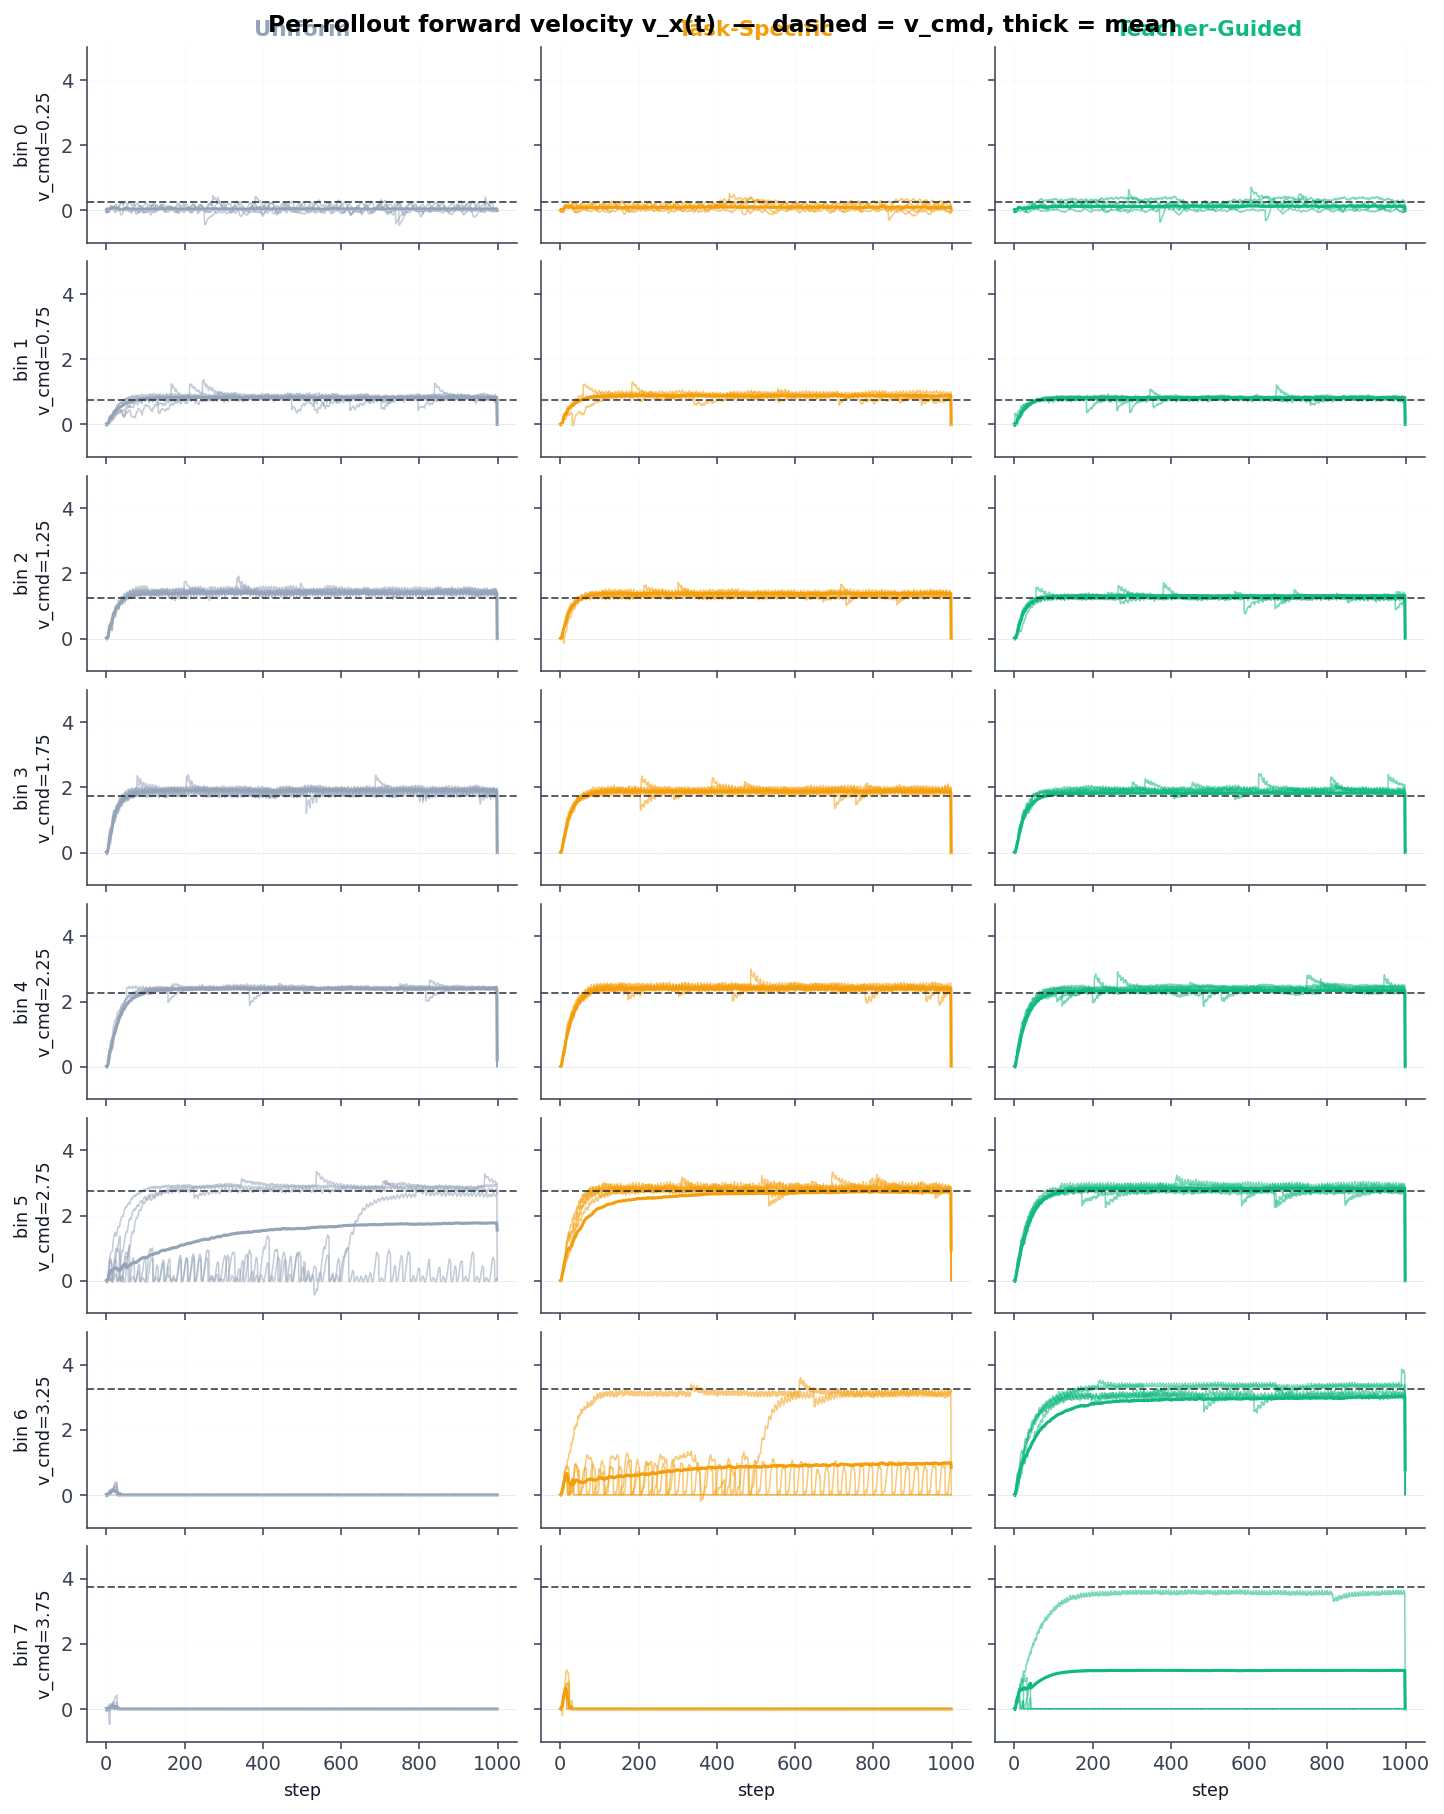
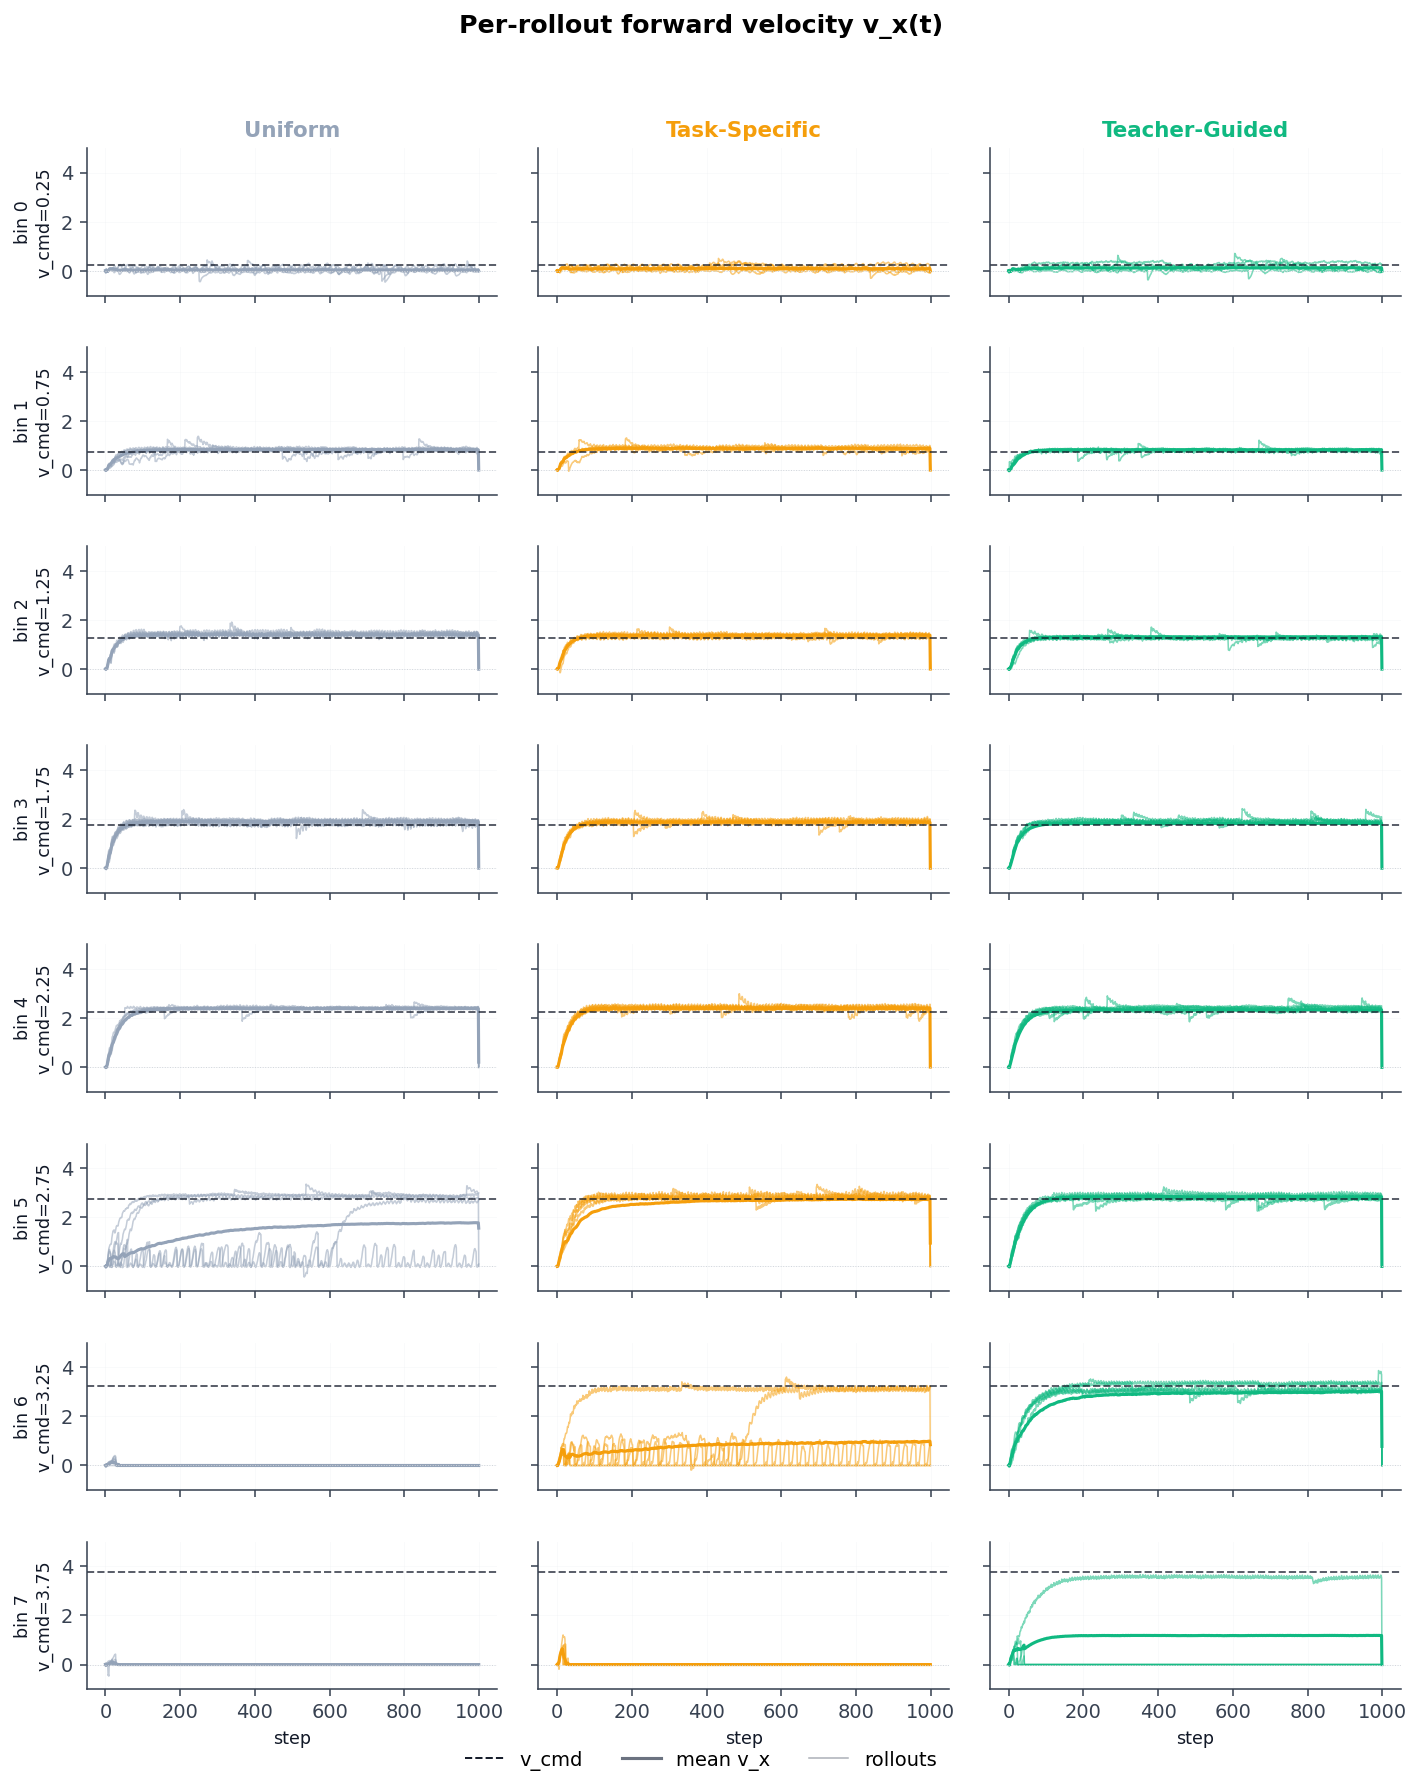
Add gait diagram plot, fix legend collisions and title spacing

diff --git a/src/source/curriculum_rl/curriculum_rl/figures/plot_gait_diagram.py b/src/source/curriculum_rl/curriculum_rl/figures/plot_gait_diagram.py
@@ -1,0 +1,175 @@
+from __future__ import annotations
+
+import argparse
+import sys
+from pathlib import Path
+
+import matplotlib.pyplot as plt
+import numpy as np
+from matplotlib.patches import Patch
+
+from curriculum_rl.figures._util import (
+    CONDITION_COLOR,
+    CONDITION_LABEL,
+    CONDITION_ORDER,
+    apply_style,
+    infer_condition,
+)
+
+
+FOOT_LABELS = ["FL", "FR", "RL", "RR"]
+
+
+def _find_traces(traces_dir: Path) -> dict[str, list[Path]]:
+    out: dict[str, list[Path]] = {}
+    if not traces_dir.is_dir():
+        return out
+    for path in sorted(traces_dir.glob("*.npz")):
+        cond = infer_condition(path.stem)
+        if cond is None:
+            continue
+        out.setdefault(cond, []).append(path)
+    return out
+
+
+def _pick_rollout(contact: np.ndarray, vx: np.ndarray, v_cmd: float) -> int:
+    n_roll, n_steps, _ = contact.shape
+    survives = np.array([
+        bool(contact[i].any(axis=1).all()) or (vx[i].shape[0] == n_steps and np.isfinite(vx[i, -1]))
+        for i in range(n_roll)
+    ])
+    err = np.abs(vx.mean(axis=1) - v_cmd)
+    if survives.any():
+        idx = np.where(survives)[0]
+        return int(idx[np.argmin(err[idx])])
+    return int(np.argmin(err))
+
+
+def _draw_gait_strip(ax, contact_one: np.ndarray, color: str, sim_dt: float, t_window_s: float) -> None:
+    n_steps = contact_one.shape[0]
+    n_show = min(int(t_window_s / sim_dt), n_steps)
+    c = contact_one[:n_show]
+    t = np.arange(n_show) * sim_dt
+
+    for foot_i in range(4):
+        y_low = 3 - foot_i - 0.4
+        y_high = 3 - foot_i + 0.4
+        contact_mask = c[:, foot_i].astype(bool)
+        if contact_mask.any():
+            edges = np.diff(np.concatenate(([False], contact_mask, [False])).astype(int))
+            starts = np.where(edges == 1)[0]
+            ends = np.where(edges == -1)[0]
+            for s, e in zip(starts, ends):
+                ax.fill_between(
+                    [t[s], t[min(e, n_show - 1)]],
+                    y_low, y_high,
+                    color=color, lw=0,
+                )
+
+    ax.set_xlim(0, n_show * sim_dt)
+    ax.set_ylim(-0.7, 3.7)
+    ax.set_yticks([3, 2, 1, 0])
+    ax.set_yticklabels(FOOT_LABELS, fontsize=7)
+    ax.tick_params(axis="x", labelsize=7)
+    ax.grid(False)
+    for spine in ("top", "right"):
+        ax.spines[spine].set_visible(False)
+
+
+def plot_gait_diagram(
+    traces_dir: Path,
+    out_path: Path,
+    num_bins: int = 8,
+    t_window_s: float = 3.0,
+) -> None:
+    cond_to_files = _find_traces(traces_dir)
+    if not cond_to_files:
+        raise FileNotFoundError(f"no trace npz files found in {traces_dir}")
+
+    sim_dt = None
+    for files in cond_to_files.values():
+        z = np.load(files[0])
+        if "contact_b0" not in z.files:
+            raise ValueError(
+                f"{files[0]} has no contact_b0 — re-run eval_epte.py to log foot contacts"
+            )
+        sim_dt = float(z["sim_dt"]) if "sim_dt" in z.files else 0.02
+        break
+
+    conditions = [c for c in CONDITION_ORDER if c in cond_to_files]
+    n_cols = len(conditions)
+    n_rows = num_bins
+
+    apply_style()
+    plt.rcParams["figure.constrained_layout.use"] = False
+    fig, axes = plt.subplots(
+        n_rows, n_cols,
+        figsize=(4.0 * n_cols, 1.3 * n_rows),
+        sharex=True,
+    )
+    if n_cols == 1:
+        axes = axes.reshape(-1, 1)
+    if n_rows == 1:
+        axes = axes.reshape(1, -1)
+
+    for ci, cond in enumerate(conditions):
+        files = cond_to_files[cond]
+        z0 = np.load(files[0])
+        for b in range(num_bins):
+            ax = axes[b, ci]
+            key_c = f"contact_b{b}"
+            key_vx = f"vx_b{b}"
+            key_vc = f"vcmd_b{b}"
+            if key_c not in z0.files:
+                ax.text(0.5, 0.5, "n/a", transform=ax.transAxes,
+                        ha="center", va="center", color="#9ca3af", fontsize=8)
+                ax.set_xticks([])
+                ax.set_yticks([])
+                continue
+            contact = z0[key_c]
+            vx = z0[key_vx]
+            v_cmd = float(z0[key_vc]) if key_vc in z0.files else 0.0
+
+            r = _pick_rollout(contact, vx, v_cmd)
+            _draw_gait_strip(ax, contact[r], CONDITION_COLOR[cond], sim_dt, t_window_s)
+
+            if ci == 0:
+                ax.set_ylabel(f"bin {b}\nv={v_cmd:.2f}", fontsize=8)
+            if b == 0:
+                ax.set_title(CONDITION_LABEL[cond], fontsize=11, fontweight="bold",
+                             color=CONDITION_COLOR[cond])
+            if b == n_rows - 1:
+                ax.set_xlabel("time (s)", fontsize=9)
+
+    fig.suptitle("Gait Diagram (Foot Contact Pattern)", fontsize=13, fontweight="bold", y=0.995)
+
+    legend_handles = [
+        Patch(facecolor="#6b7280", label="stance (foot in contact)"),
+        Patch(facecolor="white", edgecolor="#6b7280", label="swing (foot in air)"),
+    ]
+    fig.legend(handles=legend_handles, loc="lower center",
+               ncol=2, frameon=False, fontsize=10,
+               bbox_to_anchor=(0.5, 0.005))
+
+    fig.subplots_adjust(top=0.93, bottom=0.075, left=0.06, right=0.99,
+                        hspace=0.45, wspace=0.12)
+
+    out_path.parent.mkdir(parents=True, exist_ok=True)
+    fig.savefig(out_path, dpi=140, bbox_inches="tight")
+    plt.close(fig)
+
+
+def main(argv: list[str] | None = None) -> int:
+    parser = argparse.ArgumentParser()
+    parser.add_argument("--traces-dir", type=Path, default=Path("src/results/eval_traces"))
+    parser.add_argument("--out", type=Path, default=Path("src/results/figures/gait_diagram.png"))
+    parser.add_argument("--num-bins", type=int, default=8)
+    parser.add_argument("--t-window", type=float, default=3.0)
+    args = parser.parse_args(argv)
+    plot_gait_diagram(args.traces_dir, args.out, num_bins=args.num_bins, t_window_s=args.t_window)
+    print(f"wrote {args.out}")
+    return 0
+
+
+if __name__ == "__main__":
+    sys.exit(main())

diff --git a/src/source/curriculum_rl/curriculum_rl/figures/plot_v_trace_per_bin.py b/src/source/curriculum_rl/curriculum_rl/figures/plot_v_trace_per_bin.py
@@ -6,6 +6,7 @@ from pathlib import Path
 
 import matplotlib.pyplot as plt
 import numpy as np
+from matplotlib.lines import Line2D
 
 from curriculum_rl.figures._util import (
     CONDITION_COLOR,
@@ -43,6 +44,7 @@ def plot_v_trace_per_bin(
     n_rows = num_bins
 
     apply_style()
+    plt.rcParams["figure.constrained_layout.use"] = False
     fig, axes = plt.subplots(
         n_rows, n_cols,
         figsize=(3.4 * n_cols, 1.6 * n_rows),
@@ -98,8 +100,18 @@ def plot_v_trace_per_bin(
             if b == n_rows - 1:
                 ax.set_xlabel("step", fontsize=9)
 
-    fig.suptitle("Per-rollout forward velocity v_x(t)  —  dashed = v_cmd, thick = mean",
-                 fontsize=12, fontweight="bold", y=1.0)
+    fig.suptitle("Per-rollout forward velocity v_x(t)",
+                 fontsize=13, fontweight="bold", y=0.995)
+    legend_handles = [
+        Line2D([0], [0], color="#111827", lw=1.0, ls="--", label="v_cmd"),
+        Line2D([0], [0], color="#6b7280", lw=1.6, label="mean v_x"),
+        Line2D([0], [0], color="#6b7280", lw=0.8, alpha=0.55, label="rollouts"),
+    ]
+    fig.legend(handles=legend_handles, loc="lower center",
+               ncol=3, frameon=False, fontsize=10,
+               bbox_to_anchor=(0.5, 0.005))
+    fig.subplots_adjust(top=0.92, bottom=0.06, left=0.07, right=0.99,
+                        hspace=0.35, wspace=0.10)
     out_path.parent.mkdir(parents=True, exist_ok=True)
     fig.savefig(out_path, dpi=140, bbox_inches="tight")
     plt.close(fig)

diff --git a/src/scripts/plot_all.py b/src/scripts/plot_all.py
@@ -10,6 +10,7 @@ from curriculum_rl.figures.plot_iterations_to_mastery import plot_iterations_to_
 from curriculum_rl.figures.plot_learning_curves import plot_learning_curves
 from curriculum_rl.figures.plot_sampling_heatmap import plot_sampling_heatmap
 from curriculum_rl.figures.plot_sampling_heatmap_3d import plot_sampling_heatmap_3d
+from curriculum_rl.figures.plot_gait_diagram import plot_gait_diagram
 from curriculum_rl.figures.plot_gait_metrics import plot_gait_metrics
 from curriculum_rl.figures.plot_v_actual_vs_cmd import plot_v_actual_vs_cmd
 from curriculum_rl.figures.plot_v_trace_per_bin import plot_v_trace_per_bin
@@ -40,6 +41,7 @@ def main(argv: list[str] | None = None) -> int:
         ("v_actual_vs_cmd.png", lambda p: plot_v_actual_vs_cmd(args.epte_csv, p, num_bins=args.num_bins, v_max=args.v_max)),
         ("v_trace_per_bin.png", lambda p: plot_v_trace_per_bin(args.traces_dir, p, num_bins=args.num_bins)),
         ("gait_metrics.png", lambda p: plot_gait_metrics(args.epte_csv, p, num_bins=args.num_bins, v_max=args.v_max)),
+        ("gait_diagram.png", lambda p: plot_gait_diagram(args.traces_dir, p, num_bins=args.num_bins)),
     ]
 
     ok = 0

diff --git a/src/source/curriculum_rl/curriculum_rl/figures/plot_learning_curves.py b/src/source/curriculum_rl/curriculum_rl/figures/plot_learning_curves.py
@@ -51,7 +51,7 @@ def plot_learning_curves(
     for b in range(num_bins, len(axes)):
         axes[b].axis("off")
 
-    fig.subplots_adjust(left=0.06, right=0.98, top=0.90, bottom=0.18, wspace=0.15, hspace=0.32)
+    fig.subplots_adjust(left=0.06, right=0.98, top=0.84, bottom=0.18, wspace=0.15, hspace=0.40)
     handles, labels = axes[0].get_legend_handles_labels()
     fig.legend(
         handles, labels,
@@ -63,7 +63,7 @@ def plot_learning_curves(
     )
     fig.text(0.5, 0.09, "PPO iteration", ha="center", va="center", fontsize=12)
     fig.text(0.01, 0.54, "per-bin mean return", ha="left", va="center", rotation="vertical", fontsize=12)
-    fig.suptitle("Per-bin learning curves", fontsize=14, fontweight="bold", y=0.97)
+    fig.suptitle("Per-bin learning curves", fontsize=14, fontweight="bold", y=0.96)
 
     out_path.parent.mkdir(parents=True, exist_ok=True)
     fig.savefig(out_path)

diff --git a/src/source/curriculum_rl/curriculum_rl/figures/plot_epte_violin.py b/src/source/curriculum_rl/curriculum_rl/figures/plot_epte_violin.py
@@ -71,8 +71,11 @@ def plot_epte_violin(
     ax.set_ylabel("EPTE-SP", fontsize=11)
     ax.set_ylim(-0.05, 1.12)
     ax.set_yticks([0, 0.2, 0.4, 0.6, 0.8, 1.0])
-    ax.set_title("Per-rollout EPTE-SP distribution", fontsize=12, fontweight="bold")
-    ax.legend(frameon=False, fontsize=10, loc="upper left")
+    ax.set_title("Per-rollout EPTE-SP distribution", fontsize=12, fontweight="bold", pad=28)
+    ax.legend(
+        frameon=False, fontsize=10, ncol=n_cond,
+        loc="lower center", bbox_to_anchor=(0.5, 1.005),
+    )
     ax.grid(True, axis="y", alpha=0.25, lw=0.6)
     ax.set_axisbelow(True)
     out_path.parent.mkdir(parents=True, exist_ok=True)

diff --git a/src/source/curriculum_rl/curriculum_rl/figures/plot_epte_bars.py b/src/source/curriculum_rl/curriculum_rl/figures/plot_epte_bars.py
@@ -101,8 +101,11 @@ def plot_epte_bars(
     ax.set_ylabel("EPTE-SP", fontsize=11)
     ax.set_ylim(-0.02, 1.12)
     ax.set_yticks([0, 0.2, 0.4, 0.6, 0.8, 1.0])
-    ax.set_title("EPTE-SP per velocity bin", fontsize=12, fontweight="bold")
-    ax.legend(frameon=False, fontsize=10, loc="upper left")
+    ax.set_title("EPTE-SP per velocity bin", fontsize=12, fontweight="bold", pad=28)
+    ax.legend(
+        frameon=False, fontsize=10, ncol=len(conditions),
+        loc="lower center", bbox_to_anchor=(0.5, 1.005),
+    )
     ax.grid(True, axis="y", alpha=0.25, lw=0.6)
     ax.set_axisbelow(True)
     out_path.parent.mkdir(parents=True, exist_ok=True)

diff --git a/src/source/curriculum_rl/curriculum_rl/envs/go2_velocity_base.py b/src/source/curriculum_rl/curriculum_rl/envs/go2_velocity_base.py
@@ -60,8 +60,8 @@ def _apply_sprint_retune(cfg) -> None:
 
 def _apply_play_camera(cfg) -> None:
     if hasattr(cfg, "viewer"):
-        cfg.viewer.eye = (1.6, 1.4, 0.4)
-        cfg.viewer.lookat = (0.0, 0.0, 0.1)
+        cfg.viewer.eye = (1.6, 1.4, 0.25)
+        cfg.viewer.lookat = (0.0, 0.0, 0.15)
         cfg.viewer.origin_type = "asset_root"
         cfg.viewer.asset_name = "robot"
         cfg.viewer.resolution = (1280, 720)
